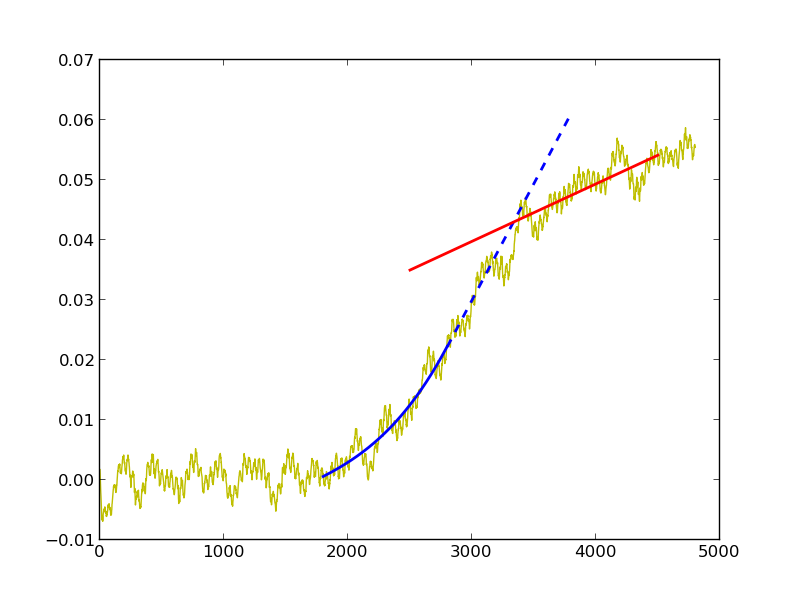
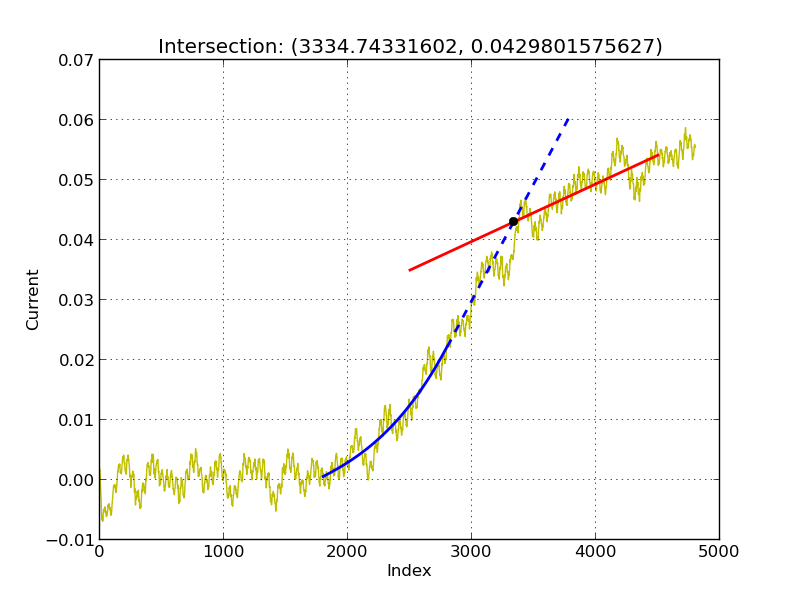
Added Better CurveFitting

diff --git a/CurveFit.py b/CurveFit.py
@@ -9,6 +9,12 @@ import numpy as np
 import Langmuir as lm
 import matplotlib.pyplot as plt
 
+#size vars
+curveSize = (1800, 2800)
+extLineNum = 1000
+elSize = (2800, 3800) #ext line size
+tlSize = (3800, 4800) #top line size
+
 def makeArrayWithFit(fit, size):
     arr = np.arange(0, size, 1.0)
     count = 0
@@ -18,41 +24,73 @@ def makeArrayWithFit(fit, size):
         count += 1
         
     return arr
+    
+#each parameter is a tuple
+def findIntersect(a1, a2, b1, b2):
+    #variables
+    eq1 = findCoef(a1, a2)
+    eq2 = findCoef(b1, b2)
+    c = eq1[0]
+    Z = eq1[1]
+    a = eq2[0]
+    B = eq2[1]
+    retX = ((B - Z) / (c - a))
+    retY = c * retX + Z
+    return (retX, retY)
 
-#data    
-data = lm.run()
-v = data[0] * -1
+def findCoef(a1, a2):
+    #x1, y1, x2, y2, m, b = 0.0, 0.0, 0.0, 0.0, 0.0, 0.0
+    x1, y1 = float(a1[0]), float(a1[1])
+    x2, y2 = float(a2[0]), float(a2[1])
+    #print(x1, y1, x2, y2, type(x1))
+    m = ((y2 - y1) / (x2 - x1))
+    b = ((m * x1) - y1) * -1
+    #print("fc", x1, y1, x2, y2, m, b)
+    return (m, b)
+    
+def run():
+    
+    #data    
+    data = lm.run()
+    v = data[0] * -1
+    
+    #first curve fit
+    vRef = v[curveSize[0]:curveSize[1]]
+    curveCof = np.polyfit(np.arange(len(vRef)), vRef, 3)
+    curveFit = makeArrayWithFit(curveCof, len(vRef))
+    
+    #extended curve in line
+    points = curveFit[len(vRef) - 2:len(vRef)] #take last two points of fit
+    lineCof = np.polyfit(np.arange(2), points, 1)
+    extlineFit = [lineCof[0] * c + lineCof[1] for c in np.arange(extLineNum)]
+    
+    #line fit the top portion
+    size = (tlSize[0], tlSize[1])
+    top = v[size[0]:size[1]]
+    topCof = np.polyfit(np.arange(size[0],size[1]), top, 1)
+    topLineFit = [topCof[0] * c + topCof[1] for c in np.arange(size[0] - 1000,size[1])]
+    
+    #plotting
+    plt.plot(v, "y", label = "Test", linewidth = 1) #main curve
+    plt.plot(np.arange(curveSize[0], curveSize[1]), curveFit, "b", linewidth = 2) #fitted curve 3rd degree
+    plt.plot(np.arange(elSize[0], elSize[1]), extlineFit, "b--", linewidth = 2) #fitted line
+    plt.plot(np.arange(size[0] - 1000, size[1]), topLineFit, "r", linewidth = 2)
+    
+    #intersection
+    a1, a2 = (elSize[0], extlineFit[0]), (elSize[1], extlineFit[999])
+    b1, b2 = (size[0] - 1000, topLineFit[0]), (size[1], topLineFit[1999])
+    inter = findIntersect(a1, a2, b1, b2)
+    print("inter", inter)
+    plt.plot(inter[0], inter[1], "ko")
+    
+    #showing plot
+    plt.xlabel("Index")
+    plt.ylabel("Current")
+    plt.title("Intersection: (" + str(inter[0]) + ", " + str(inter[1]) + ")")
+    #plt.xlim(3425, 3426)
+    #plt.ylim(0.04646, 0.04660)
+    plt.grid()
+    plt.show()
 
-#first curve fit
-vRef = v[1800:2800]
-curveCof = np.polyfit(np.arange(1000), vRef, 3)
-curveFit = makeArrayWithFit(curveCof, 1000)
-
-#extended curve in line
-points = curveFit[998:1000] #take last two points of fit
-lineCof = np.polyfit(np.arange(2), points, 1)
-extlineFit = [lineCof[0] * c + lineCof[1] for c in np.arange(1000)]
-
-#line fit the top portion
-size = (3800, 4800)
-top = v[size[0]:size[1]]
-topCof = np.polyfit(np.arange(size[0],size[1]), top, 1)
-topLineFit = [topCof[0] * c + topCof[1] for c in np.arange(size[0] - 1000,size[1])]
-
-#plotting
-plt.plot(v, "y", label = "Test", linewidth = 1) #main curve
-plt.plot(np.arange(1800, 2800), curveFit, "b", linewidth = 2) #fitted curve 3rd degree
-plt.plot(np.arange(2800, 3800), extlineFit, "b--", linewidth = 2) #fitted line
-plt.plot(np.arange(size[0] - 1000, size[1]), topLineFit, "r", linewidth = 2)
-
-#showing plot
-plt.xlabel("Index")
-plt.ylabel("Current")
-plt.show()
-
-
-
-
-
-
-
+if __name__ == "__main__":
+    run()
